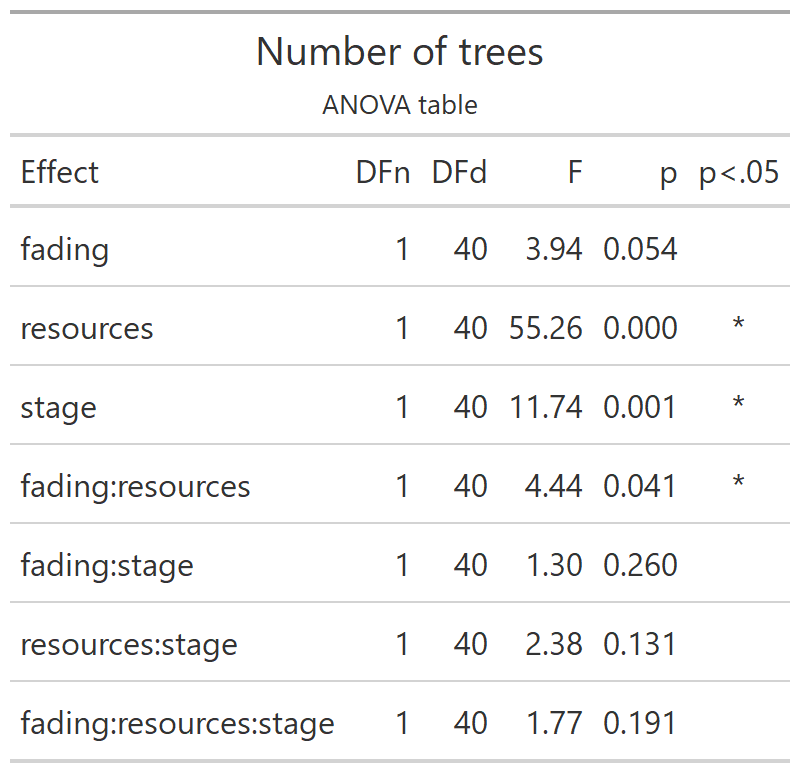
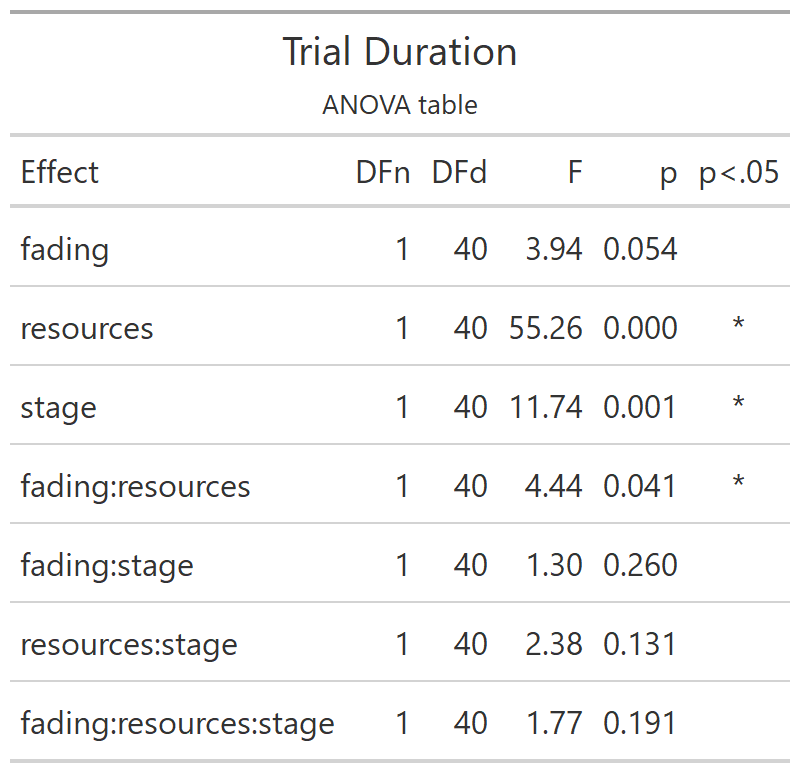
fix name of DV in Trial Duration

Changed region(s): [[0.3125, 0.031, 0.6875, 0.0931]]

diff --git a/docs/404.html b/docs/404.html
@@ -89,7 +89,7 @@ the table of contents to find the page you are looking for.</p>
 <footer class="bg-primary text-light mt-5"><div class="container"><div class="row">
 
   <div class="col-12 col-md-6 mt-3">
-    <p>"<strong>Foraging: introducing our gaze-contingent eye-tracking paradigm for studying foraging</strong>" was written by Matthew Green. It was last built on Tuesday 17 May 2022 at 18:36:18.</p>
+    <p>"<strong>Foraging: introducing our gaze-contingent eye-tracking paradigm for studying foraging</strong>" was written by Matthew Green. It was last built on Tuesday 17 May 2022 at 18:46:01.</p>
   </div>
 
   <div class="col-12 col-md-6 mt-3">

diff --git a/docs/index.html b/docs/index.html
@@ -108,7 +108,7 @@ set in the _output.yml file.&lt;/p&gt;">
 <footer class="bg-primary text-light mt-5"><div class="container"><div class="row">
 
   <div class="col-12 col-md-6 mt-3">
-    <p>"<strong>Foraging: introducing our gaze-contingent eye-tracking paradigm for studying foraging</strong>" was written by Matthew Green. It was last built on Tuesday 17 May 2022 at 18:36:18.</p>
+    <p>"<strong>Foraging: introducing our gaze-contingent eye-tracking paradigm for studying foraging</strong>" was written by Matthew Green. It was last built on Tuesday 17 May 2022 at 18:46:01.</p>
   </div>
 
   <div class="col-12 col-md-6 mt-3">

diff --git a/docs/references.html b/docs/references.html
@@ -106,7 +106,7 @@ set in the _output.yml file.&lt;/p&gt;">
 <footer class="bg-primary text-light mt-5"><div class="container"><div class="row">
 
   <div class="col-12 col-md-6 mt-3">
-    <p>"<strong>Foraging: introducing our gaze-contingent eye-tracking paradigm for studying foraging</strong>" was written by Matthew Green. It was last built on Tuesday 17 May 2022 at 18:36:18.</p>
+    <p>"<strong>Foraging: introducing our gaze-contingent eye-tracking paradigm for studying foraging</strong>" was written by Matthew Green. It was last built on Tuesday 17 May 2022 at 18:46:01.</p>
   </div>
 
   <div class="col-12 col-md-6 mt-3">

diff --git a/docs/inter-tree-distance.html b/docs/inter-tree-distance.html
@@ -102,7 +102,7 @@
 <footer class="bg-primary text-light mt-5"><div class="container"><div class="row">
 
   <div class="col-12 col-md-6 mt-3">
-    <p>"<strong>Foraging: introducing our gaze-contingent eye-tracking paradigm for studying foraging</strong>" was written by Matthew Green. It was last built on Tuesday 17 May 2022 at 18:36:18.</p>
+    <p>"<strong>Foraging: introducing our gaze-contingent eye-tracking paradigm for studying foraging</strong>" was written by Matthew Green. It was last built on Tuesday 17 May 2022 at 18:46:01.</p>
   </div>
 
   <div class="col-12 col-md-6 mt-3">

diff --git a/docs/introduction-1.html b/docs/introduction-1.html
@@ -105,7 +105,7 @@
 <footer class="bg-primary text-light mt-5"><div class="container"><div class="row">
 
   <div class="col-12 col-md-6 mt-3">
-    <p>"<strong>Foraging: introducing our gaze-contingent eye-tracking paradigm for studying foraging</strong>" was written by Matthew Green. It was last built on Tuesday 17 May 2022 at 18:36:18.</p>
+    <p>"<strong>Foraging: introducing our gaze-contingent eye-tracking paradigm for studying foraging</strong>" was written by Matthew Green. It was last built on Tuesday 17 May 2022 at 18:46:01.</p>
   </div>
 
   <div class="col-12 col-md-6 mt-3">

diff --git a/docs/introduction.html b/docs/introduction.html
@@ -104,7 +104,7 @@
 <footer class="bg-primary text-light mt-5"><div class="container"><div class="row">
 
   <div class="col-12 col-md-6 mt-3">
-    <p>"<strong>Foraging: introducing our gaze-contingent eye-tracking paradigm for studying foraging</strong>" was written by Matthew Green. It was last built on Tuesday 17 May 2022 at 18:36:18.</p>
+    <p>"<strong>Foraging: introducing our gaze-contingent eye-tracking paradigm for studying foraging</strong>" was written by Matthew Green. It was last built on Tuesday 17 May 2022 at 18:46:01.</p>
   </div>
 
   <div class="col-12 col-md-6 mt-3">

diff --git a/docs/number-of-trees-1.html b/docs/number-of-trees-1.html
@@ -100,7 +100,7 @@
 <footer class="bg-primary text-light mt-5"><div class="container"><div class="row">
 
   <div class="col-12 col-md-6 mt-3">
-    <p>"<strong>Foraging: introducing our gaze-contingent eye-tracking paradigm for studying foraging</strong>" was written by Matthew Green. It was last built on Tuesday 17 May 2022 at 18:36:18.</p>
+    <p>"<strong>Foraging: introducing our gaze-contingent eye-tracking paradigm for studying foraging</strong>" was written by Matthew Green. It was last built on Tuesday 17 May 2022 at 18:46:01.</p>
   </div>
 
   <div class="col-12 col-md-6 mt-3">

diff --git a/docs/revisits-per-trial-1.html b/docs/revisits-per-trial-1.html
@@ -110,7 +110,7 @@
 <footer class="bg-primary text-light mt-5"><div class="container"><div class="row">
 
   <div class="col-12 col-md-6 mt-3">
-    <p>"<strong>Foraging: introducing our gaze-contingent eye-tracking paradigm for studying foraging</strong>" was written by Matthew Green. It was last built on Tuesday 17 May 2022 at 18:36:18.</p>
+    <p>"<strong>Foraging: introducing our gaze-contingent eye-tracking paradigm for studying foraging</strong>" was written by Matthew Green. It was last built on Tuesday 17 May 2022 at 18:46:01.</p>
   </div>
 
   <div class="col-12 col-md-6 mt-3">

diff --git a/docs/revisits-per-trial.html b/docs/revisits-per-trial.html
@@ -237,7 +237,7 @@
 <footer class="bg-primary text-light mt-5"><div class="container"><div class="row">
 
   <div class="col-12 col-md-6 mt-3">
-    <p>"<strong>Foraging: introducing our gaze-contingent eye-tracking paradigm for studying foraging</strong>" was written by Matthew Green. It was last built on Tuesday 17 May 2022 at 18:36:18.</p>
+    <p>"<strong>Foraging: introducing our gaze-contingent eye-tracking paradigm for studying foraging</strong>" was written by Matthew Green. It was last built on Tuesday 17 May 2022 at 18:46:01.</p>
   </div>
 
   <div class="col-12 col-md-6 mt-3">

diff --git a/docs/trial-duration-1.html b/docs/trial-duration-1.html
@@ -100,7 +100,7 @@
 <footer class="bg-primary text-light mt-5"><div class="container"><div class="row">
 
   <div class="col-12 col-md-6 mt-3">
-    <p>"<strong>Foraging: introducing our gaze-contingent eye-tracking paradigm for studying foraging</strong>" was written by Matthew Green. It was last built on Tuesday 17 May 2022 at 18:36:18.</p>
+    <p>"<strong>Foraging: introducing our gaze-contingent eye-tracking paradigm for studying foraging</strong>" was written by Matthew Green. It was last built on Tuesday 17 May 2022 at 18:46:01.</p>
   </div>
 
   <div class="col-12 col-md-6 mt-3">

diff --git a/docs/appendix-a.html b/docs/appendix-a.html
@@ -99,7 +99,7 @@
 <footer class="bg-primary text-light mt-5"><div class="container"><div class="row">
 
   <div class="col-12 col-md-6 mt-3">
-    <p>"<strong>Foraging: introducing our gaze-contingent eye-tracking paradigm for studying foraging</strong>" was written by Matthew Green. It was last built on Tuesday 17 May 2022 at 18:36:18.</p>
+    <p>"<strong>Foraging: introducing our gaze-contingent eye-tracking paradigm for studying foraging</strong>" was written by Matthew Green. It was last built on Tuesday 17 May 2022 at 18:46:01.</p>
   </div>
 
   <div class="col-12 col-md-6 mt-3">

diff --git a/docs/appendix-b.html b/docs/appendix-b.html
@@ -99,7 +99,7 @@
 <footer class="bg-primary text-light mt-5"><div class="container"><div class="row">
 
   <div class="col-12 col-md-6 mt-3">
-    <p>"<strong>Foraging: introducing our gaze-contingent eye-tracking paradigm for studying foraging</strong>" was written by Matthew Green. It was last built on Tuesday 17 May 2022 at 18:36:18.</p>
+    <p>"<strong>Foraging: introducing our gaze-contingent eye-tracking paradigm for studying foraging</strong>" was written by Matthew Green. It was last built on Tuesday 17 May 2022 at 18:46:01.</p>
   </div>
 
   <div class="col-12 col-md-6 mt-3">
